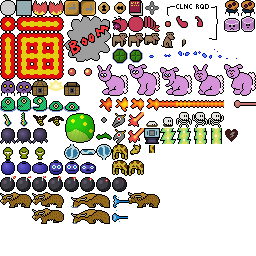
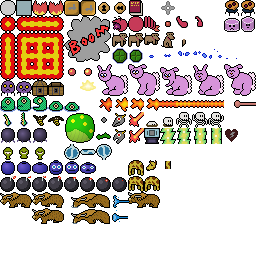
Graphic tweaks to prevent rotation neighbor artifacts on Pi

diff --git a/src/game/sprites/ps_sprite_treasurechest.c b/src/game/sprites/ps_sprite_treasurechest.c
@@ -116,6 +116,8 @@ static int _ps_treasurechest_update(struct ps_sprite *spr,struct ps_game *game) 
 }
 
 /* Draw.
+ * The tiles are at spr->tileid+(00,01,03).
+ * We skip 02 because I came back later and tried to ensure clearance for rotatable tiles.
  */
 
 static int _ps_treasurechest_draw(struct akgl_vtx_maxtile *vtxv,int vtxa,struct ps_sprite *spr) {
@@ -136,7 +138,7 @@ static int _ps_treasurechest_draw(struct akgl_vtx_maxtile *vtxv,int vtxa,struct 
   vtx_chest->x=spr->x;
   vtx_chest->y=spr->y;
   vtx_chest->tileid=spr->tileid;
-  if (SPR->collected) vtx_chest->tileid+=2;
+  if (SPR->collected) vtx_chest->tileid+=1;
   vtx_chest->size=PS_TILESIZE;
   vtx_chest->ta=0x00;
   vtx_chest->pr=vtx_chest->pg=vtx_chest->pb=0x80;
@@ -146,7 +148,7 @@ static int _ps_treasurechest_draw(struct akgl_vtx_maxtile *vtxv,int vtxa,struct 
 
   if (vtx_dazzle) {
     memcpy(vtx_dazzle,vtx_chest,sizeof(struct akgl_vtx_maxtile));
-    vtx_dazzle->tileid=spr->tileid+1;
+    vtx_dazzle->tileid=spr->tileid+3;
     vtx_dazzle->t=SPR->dazzlet;
     vtx_dazzle->size=PS_TREASURECHEST_DAZZLE_SIZE_MIN+(SPR->dazzlesizep*(PS_TREASURECHEST_DAZZLE_SIZE_MAX-PS_TREASURECHEST_DAZZLE_SIZE_MIN))/PS_TREASURECHEST_DAZZLE_SIZE_PERIOD;
   }

diff --git a/src/game/sprites/ps_sprite_fireworks.c b/src/game/sprites/ps_sprite_fireworks.c
@@ -27,7 +27,7 @@ struct ps_sprite_fireworks {
 static int _ps_fireworks_init(struct ps_sprite *spr) {
 
   spr->tsid=0x04;
-  SPR->vtx.tileid=0x09;
+  SPR->vtx.tileid=0x0a;
   SPR->vtx.size=PS_TILESIZE;
   SPR->vtx.tr=SPR->vtx.tg=SPR->vtx.tb=SPR->vtx.ta=0;
   SPR->vtx.a=0xff;
